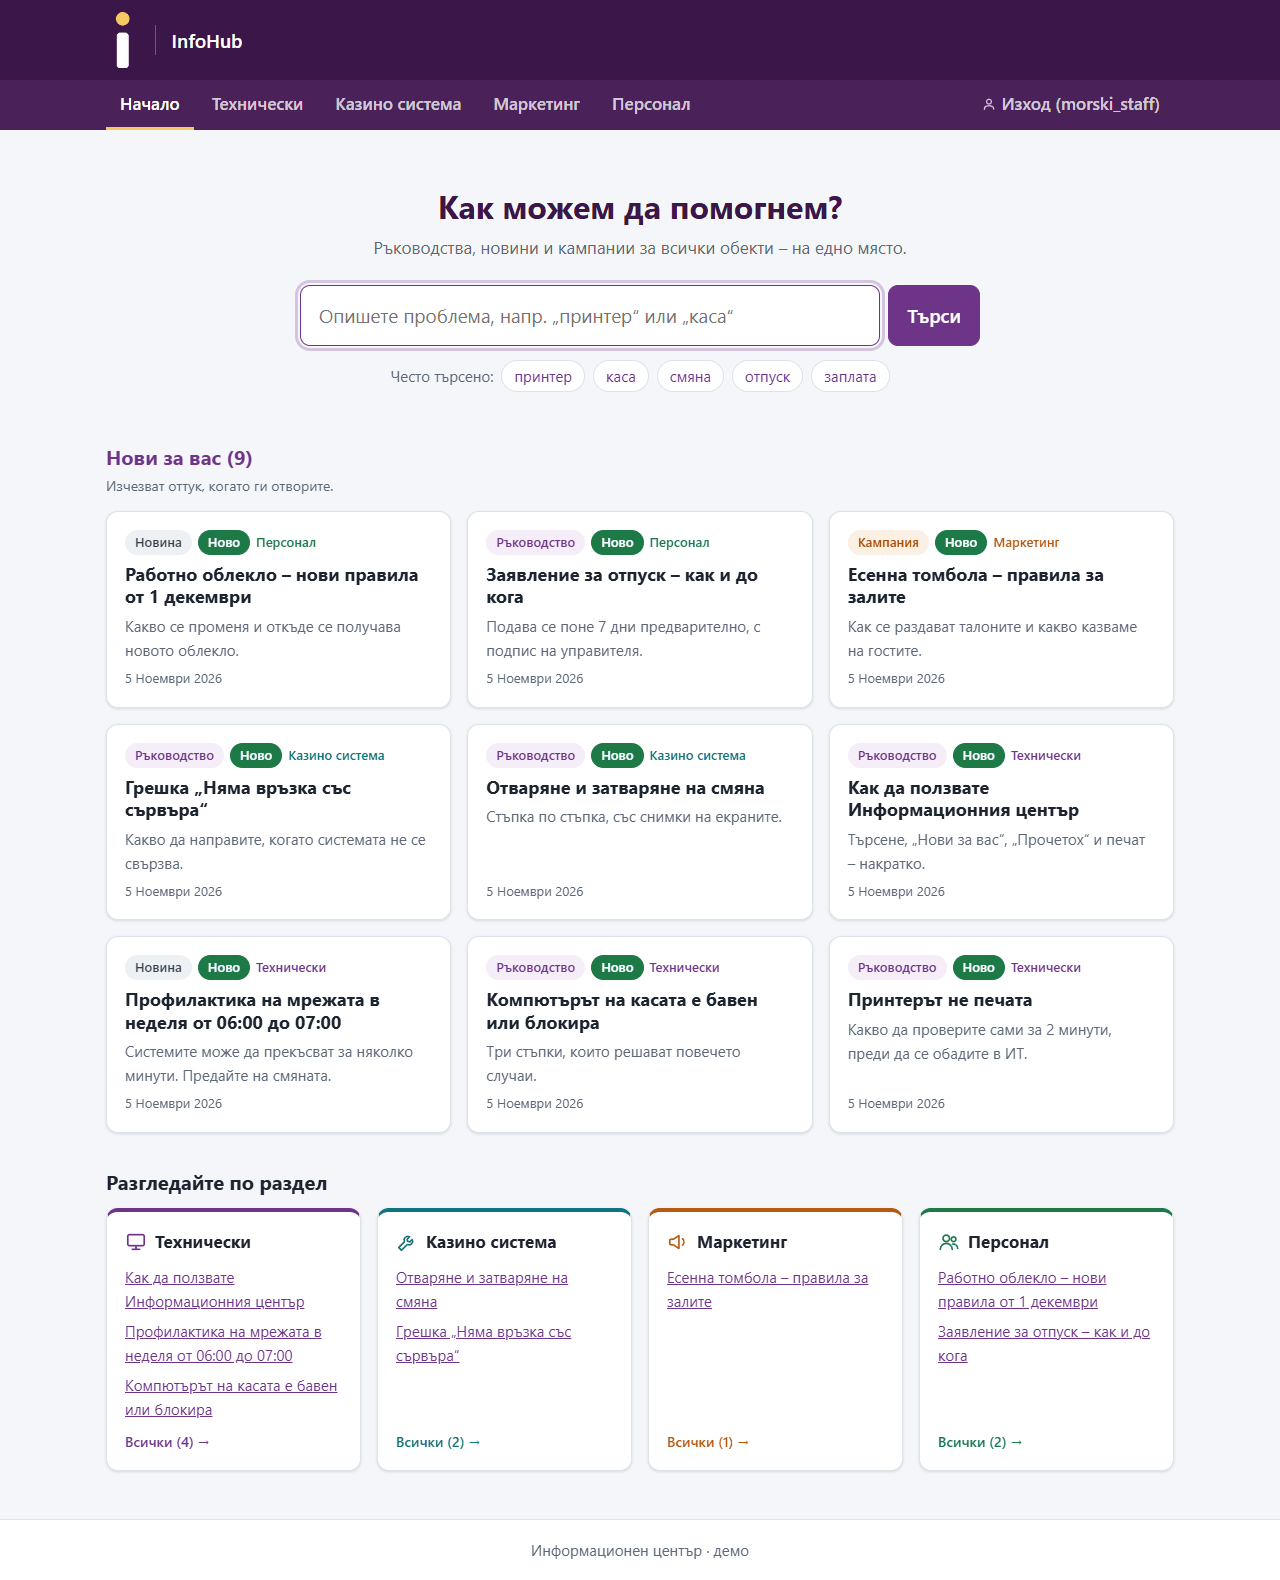
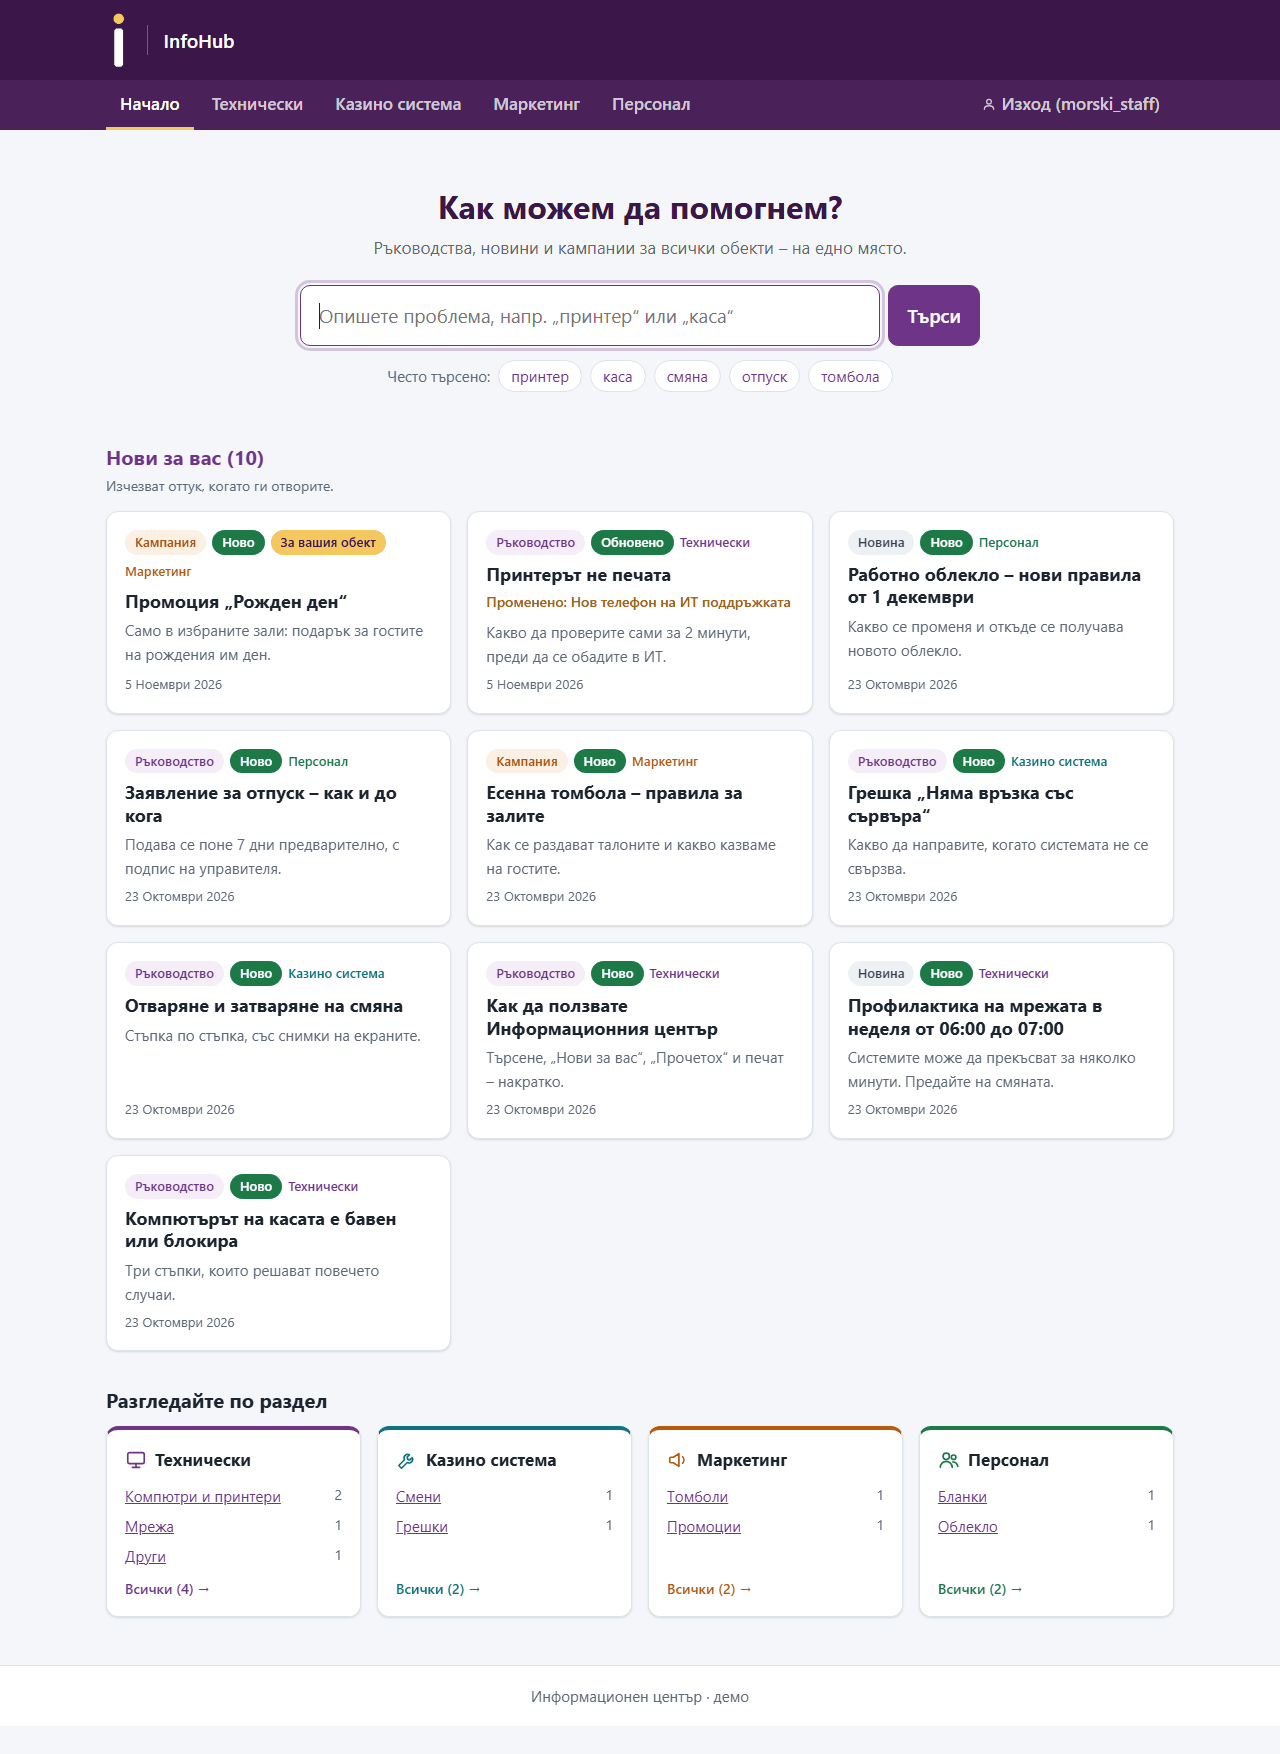
README: home screenshot with the section categories and an „Обновено“ post
Retaken on a fictional demo copy (made-up venues, neutral logo).

diff --git a/README.md b/README.md
@@ -12,7 +12,7 @@ Docker · nginx · Caddy (Let's Encrypt)
 The interface is in Bulgarian, as it is for the people who use it. The screenshots show a demo
 copy with fictional venues and content.
 
-![Home page of a venue: search, frequent searches, „New for you“ with read-confirmation labels](docs/screenshots/home.png)
+![Home page of a venue: search, frequent searches, „New for you“ with an updated post and its change note, sections with their categories](docs/screenshots/home.png)
 
 ## What it does
 
